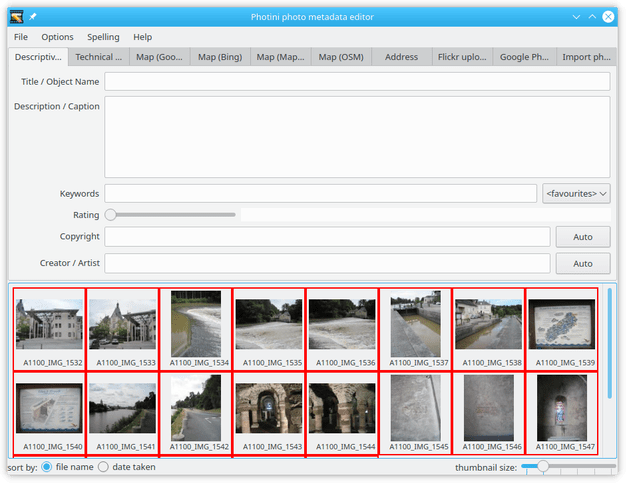
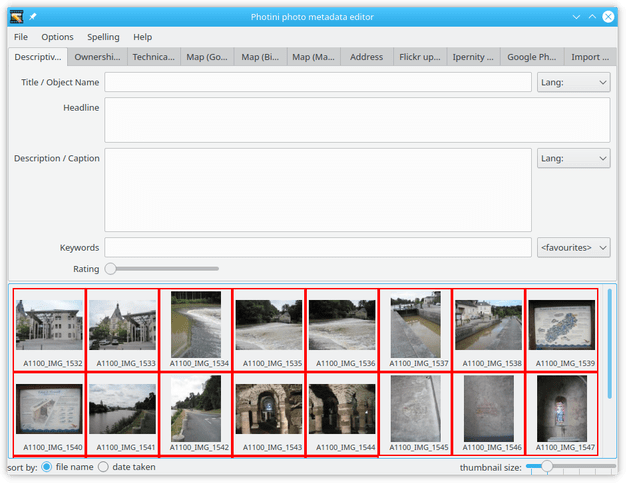
Update image selector documentation

diff --git a/src/photini/__init__.py b/src/photini/__init__.py
@@ -1,4 +1,4 @@
 """Full documentation is at https://photini.readthedocs.io/"""
 
 __version__ = '2022.4.0'
-build = '2113 (30c5a72)'
+build = '2114 (890afe8)'

diff --git a/src/doc/manual/image_selector.rst b/src/doc/manual/image_selector.rst
@@ -1,5 +1,5 @@
 .. This is part of the Photini documentation.
-   Copyright (C)  2012-21  Jim Easterbrook.
+   Copyright (C)  2012-22  Jim Easterbrook.
    See the file ../DOC_LICENSE.txt for copying conditions.
 
 Image selector
@@ -44,7 +44,7 @@ The keyboard shortcut ``Ctrl+A`` selects all the loaded files.
 Selecting multiple files allows you to set metadata, such as the image title, on several files at once.
 This is much quicker than having to edit the metadata of each file separately.
 You will probably want to select a different group of files before editing each metadata item.
-For example, you might give the same title (and copyright and creator) to all the images, then select only the first two or three before writing a description.
+For example, you might give the same title to all the images, then select only the first two or three before writing a description.
 
 Context menu
 ------------
@@ -63,7 +63,7 @@ The context menu currently has five items.
 .. image:: ../images/screenshot_008.png
 
 The ``view changes`` context menu item displays all the metadata items that have changed.
-In this example I've set four items that were previously empty.
+In this example I've set two items that were previously empty.
 If you want to discard any of these changes then select the appropriate ``undo`` checkboxes and click on ``OK``.
 
 .. image:: ../images/screenshot_009.png
